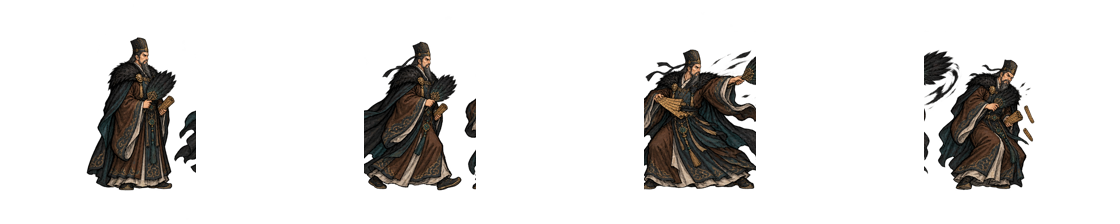
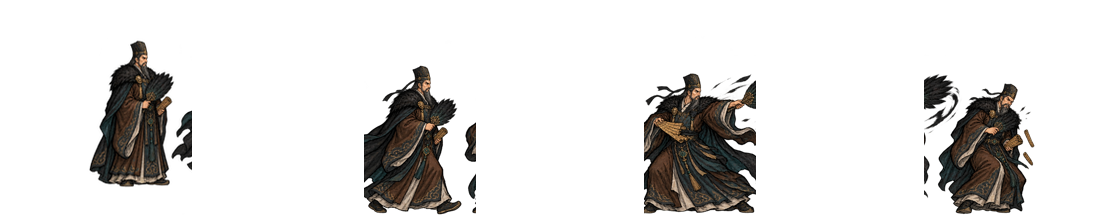
fix: audit and pad all officer evolution sheets

diff --git a/tools/pad-all-officer-sheets.py b/tools/pad-all-officer-sheets.py
@@ -1,0 +1,13 @@
+from PIL import Image
+from pathlib import Path
+p=Path(__file__).parents[1]/'packages/web/public/officers'
+for f in p.glob('*-battle-*.webp'):
+ im=Image.open(f).convert('RGBA'); rows=im.height//224; cw=im.width//4; out=Image.new('RGBA',im.size,(0,0,0,0)); changed=False
+ for r in range(rows):
+  for c in range(4):
+   cell=im.crop((c*cw,r*224,(c+1)*cw,(r+1)*224)); box=cell.getchannel('A').getbbox()
+   if not box: continue
+   l,t,rr,b=box; content=cell.crop(box); maxw=cw-16; maxh=224-18; scale=min(1,maxw/content.width,maxh/content.height)
+   if scale<1: content=content.resize((max(1,int(content.width*scale)),max(1,int(content.height*scale))),Image.Resampling.LANCZOS); changed=True
+   x=c*cw+(cw-content.width)//2; y=r*224+224-9-content.height; out.alpha_composite(content,(x,y))
+ if changed: out.save(f,'WEBP',lossless=True,quality=95)

diff --git a/tools/audit-officer-evolution-art.py b/tools/audit-officer-evolution-art.py
@@ -1,0 +1,13 @@
+from PIL import Image
+from pathlib import Path
+import json
+p=Path(__file__).parents[1]/'packages/web/public/officers'
+bad=[]; total=0
+for f in p.glob('*-battle-*.webp'):
+    im=Image.open(f).convert('RGBA'); rows=im.height//224; cols=4
+    if im.width not in (1120,1400): bad.append((f.name,'width',im.size)); continue
+    for r in range(rows):
+      for c in range(cols):
+        cell=im.crop((c*im.width//4,r*224,(c+1)*im.width//4,(r+1)*224)); a=cell.getchannel('A'); box=a.getbbox(); total+=1
+        if box and (box[0]<8 or box[1]<8 or box[2]>cell.width-8 or box[3]>cell.height-8): bad.append((f.name,f'cell {r},{c}',box))
+print(json.dumps({'cells':total,'issues':bad},ensure_ascii=False,indent=2))
